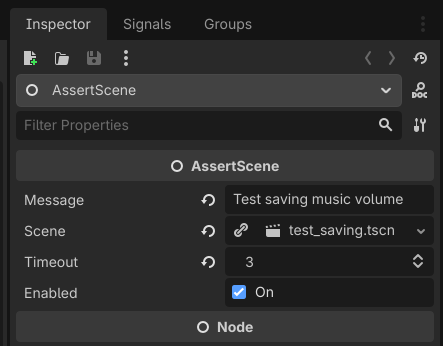
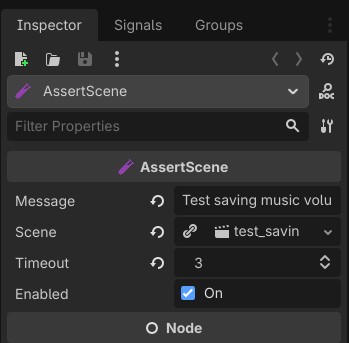
Update README.md

diff --git a/README.md b/README.md
@@ -1,36 +1,48 @@
 # AssertTest
-AssertTest was created so we could test scenes using [Godot](https://godotengine.org/) built-in [assert()](https://docs.godotengine.org/en/stable/classes/[email redacted]#class-gdscript-method-assert).  
+AssertTest was created so we could test scenes using [Godot](https://godotengine.org/) built-in [`assert`](https://docs.godotengine.org/en/stable/classes/[email redacted]#class-gdscript-method-assert).
+
 It's just ~120 lines of code that check if a scene produced any stderr (because asserts generate stderr when failing).  
 
 ## Installing
 
 ## Usage
-Create a scene that does whatever you want to test. For example, let's create a test for changing music volume:  
+Create a scene that does whatever you want to test.  
+
+For example, let's create a test for changing music volume:  
 
 ![Print screen of the scene dock, showing a Control named "TestSaving" with a child called "ProjectSettings"](./example/img/print_screen_00.png)  
+
+We add a script that use `assert` for testing:  
 
 ```gdscript
 extends MarginContainer
 
 
 func _ready() -> void:
-	# Preparing quit after this function finish.
+	# Preparing to quit after this function finish.
 	get_tree().quit.call_deferred(0)
 	
-	$SettingsPopup.set_music_volume(50)
-	assert($SettingsPopup.get_music_volume() == 50)
+	var initial_volume := $SettingsPopup.get_music_volume()
+	var desired_volume := 50
+
+	assert(initial_volume != desired_volume, "Volumes should be different for this test")
+
+	$SettingsPopup.set_music_volume(desired_volume)
+	var new_volume := $SettingsPopup.get_music_volume()
+
+	assert(new_volume == desired_volume, "Volume did not changed")
 ```
 
-Now create another scene, which we will use to test as many scenes we are interessing. 
-This scene will have `AssertScene` as child:  
+Now we create another scene, which we will use to test as many scenes we are interessing.  
 
 ![Print screen of the scene dock, showing a Node named "Example" with a child called "AssertScene"](./example/img/print_screen_01.png)  
 
-This node is responsible for executing a scene, so update the `scene` property with the scene
-that you want to test.  
+`AssertScene` is responsible for executing another scene, so we need to set the property `scene` to the scene that we want to test.  
 
 ![Print screen of the inspector dock, showing AssertScene configured with property "scene" setted to previous scene](./example/img/print_screen_02.png)  
 
-That's it, execute this scene to test the previous scene.  
+That's it! Execute this scene to test the previous scene.  
 
-As you create more test scene, you just have to add them to this scene and execute it.  
+As you create more test scene, you just have to add more `AssertScene` to this scene and execute it.  
+
+![Print screen of the scene dock, showing a Node named "Example" with multiple children called "AssertScene"](./example/img/print_screen_03.png)  